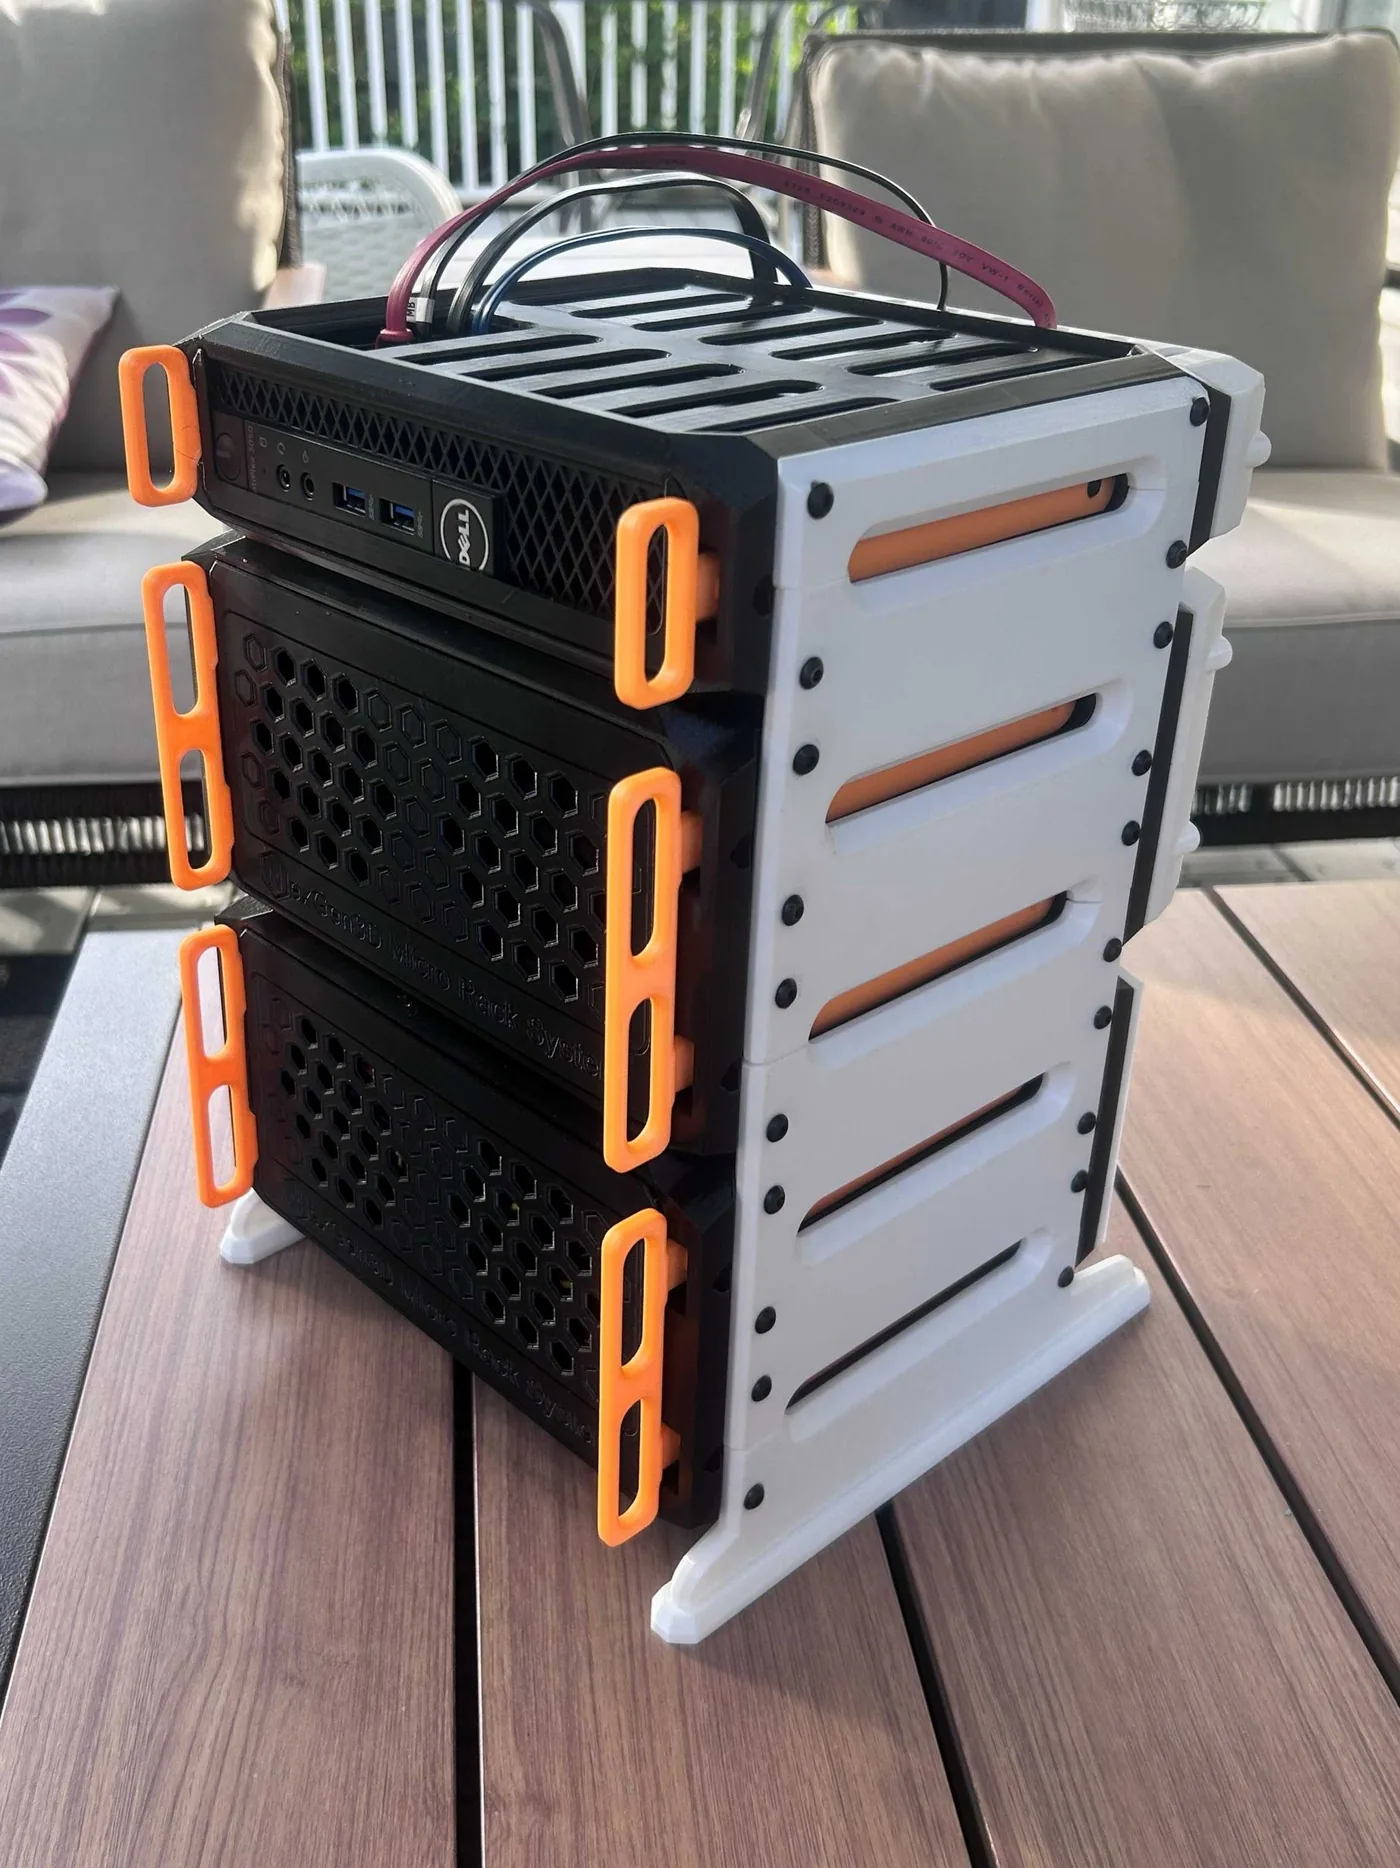
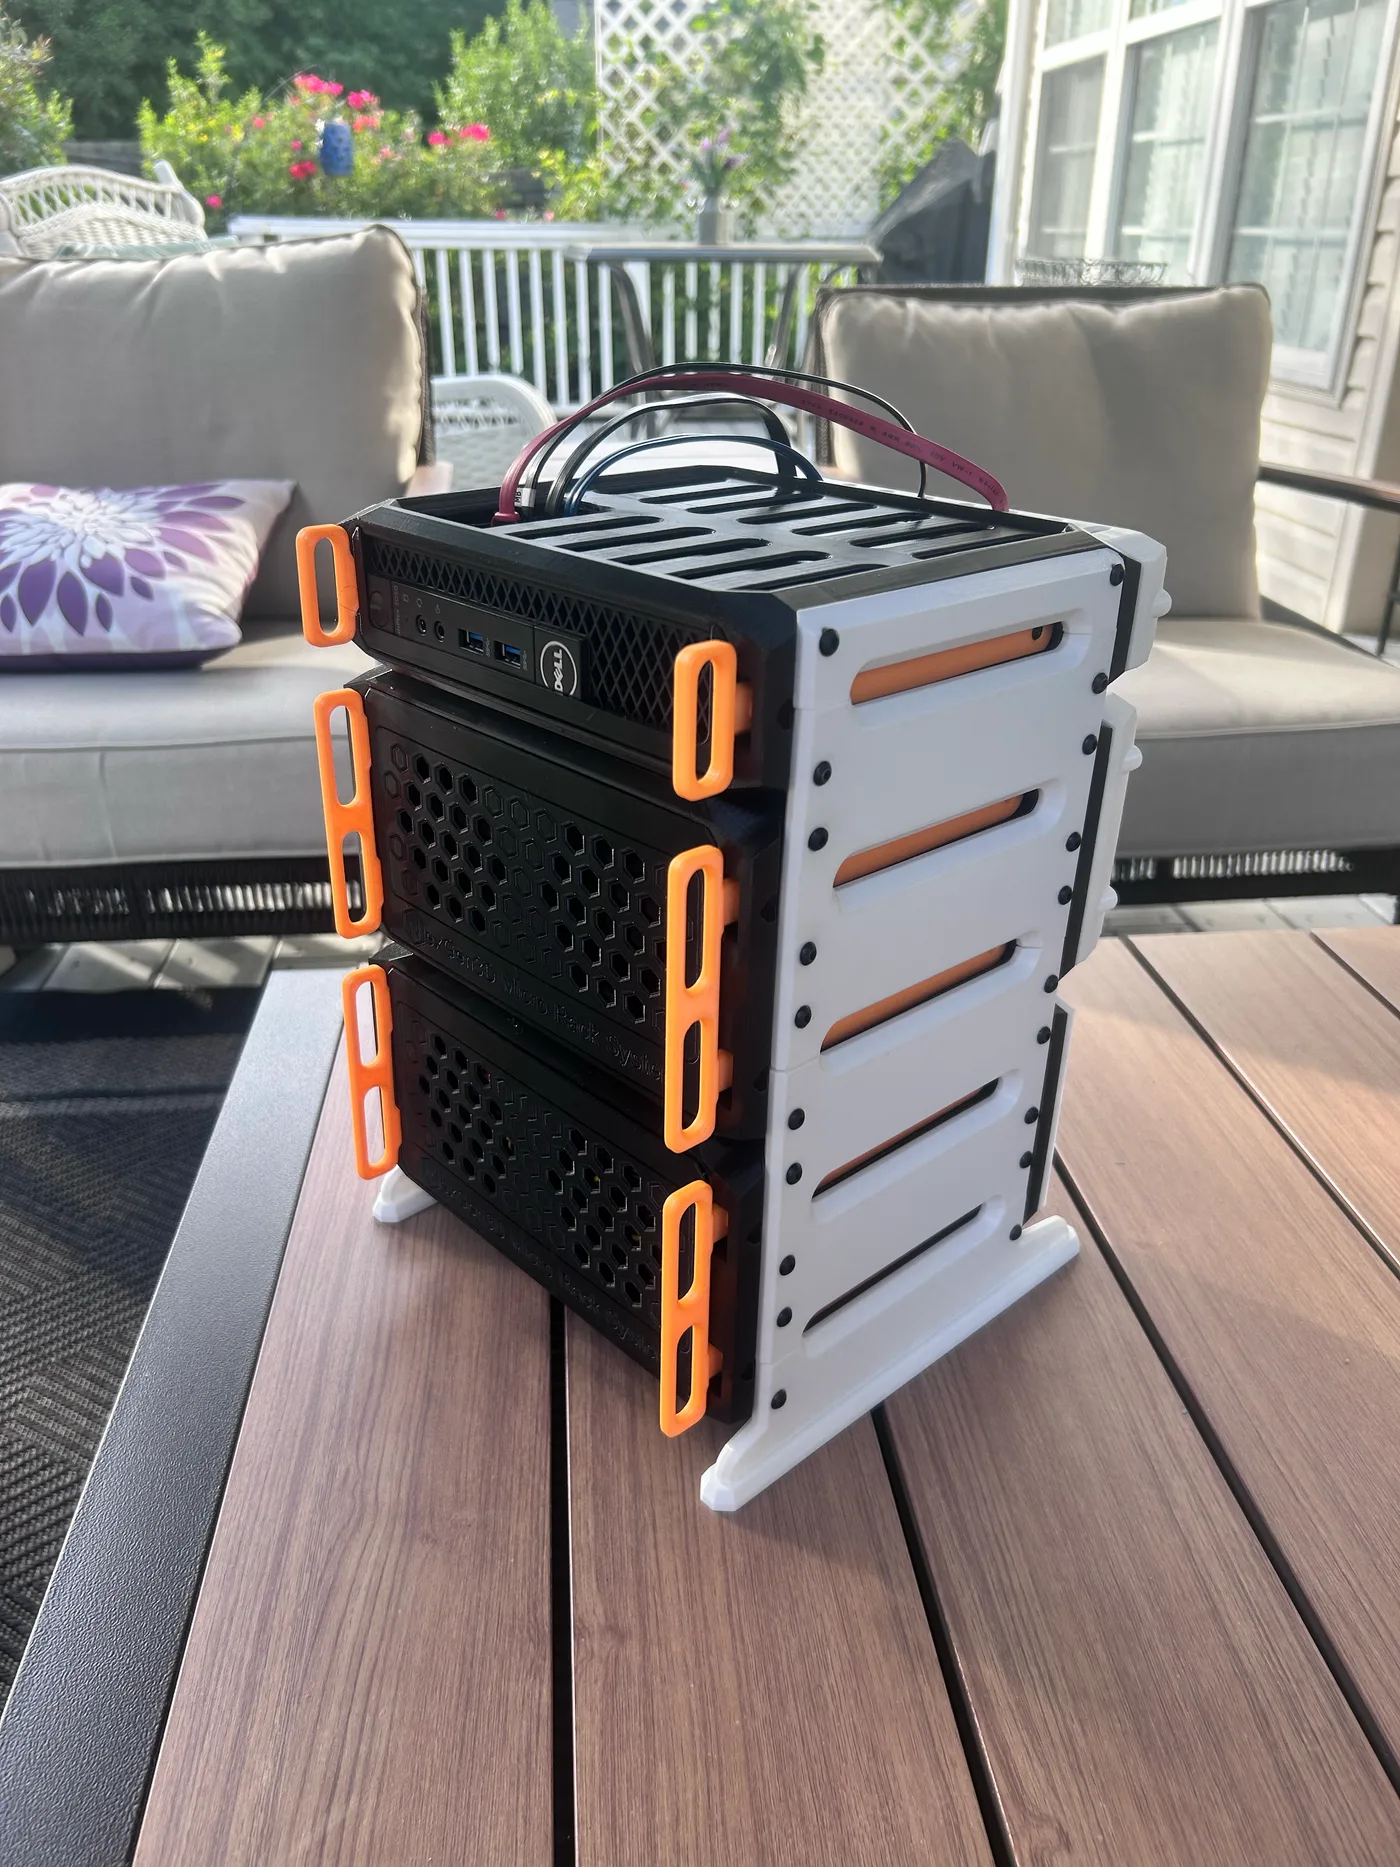
Removed ledes

diff --git a/app/projects/[slug]/page.tsx b/app/projects/[slug]/page.tsx
@@ -161,12 +161,6 @@ export default async function ProjectPage({ params }: Props) {
         )}
 
         <div className={isFeature ? "max-w-4xl mx-auto px-6 pb-4" : ""}>
-          {isFeature && data.lede && (
-            <p className="text-pretty text-lg leading-relaxed text-white/85 md:text-2xl md:leading-relaxed">
-              {String(data.lede)}
-            </p>
-          )}
-
           {isFeature && <ProjectFacts facts={facts} />}
 
           <article

diff --git a/lib/ProjectFacts.tsx b/lib/ProjectFacts.tsx
@@ -1,6 +1,6 @@
 /**
  * The numbers a project is judged on, pulled out of the prose and into one
- * scannable block under the lede. Frontmatter `facts` is a list of
+ * scannable block under the banner. Frontmatter `facts` is a list of
  * `{ label, value }` pairs; a project without the field renders nothing and
  * keeps its narrative as-is.
  */

diff --git a/CLAUDE.md b/CLAUDE.md
@@ -41,7 +41,6 @@ heroAlt
 heroPosition        # object-position for the banner crop, e.g. "68% 58%"
 heroScale           # scale() on the banner image; last resort, see below
 tagline             # one line under the banner title; falls back to summary
-lede                # opening paragraph, set above the rule that starts the article
 facts               # [{ label, value }] — becomes the Specifications table
 ```
 
@@ -49,10 +48,9 @@ facts               # [{ label, value }] — becomes the Specifications table
 `/projects`, and the "Next project" link at the foot of a detail page (which
 wraps from the last project back to the first).
 
-`summary`, `tagline` and `lede` are three different sentences about the same
-project and appear within one screen of each other on a feature page. Write
-them so they do not echo — the card summary sells it, the tagline names what it
-is, the lede opens the argument.
+`summary` and `tagline` are two different sentences about the same project and
+appear within one screen of each other on a feature page. Write them so they do
+not echo — the card summary sells it, the tagline names what it is.
 
 `heroScale` zooms the banner and therefore crops differently at every viewport;
 it leaked a fragment of a CAD annotation into view on mobile once. Prefer
